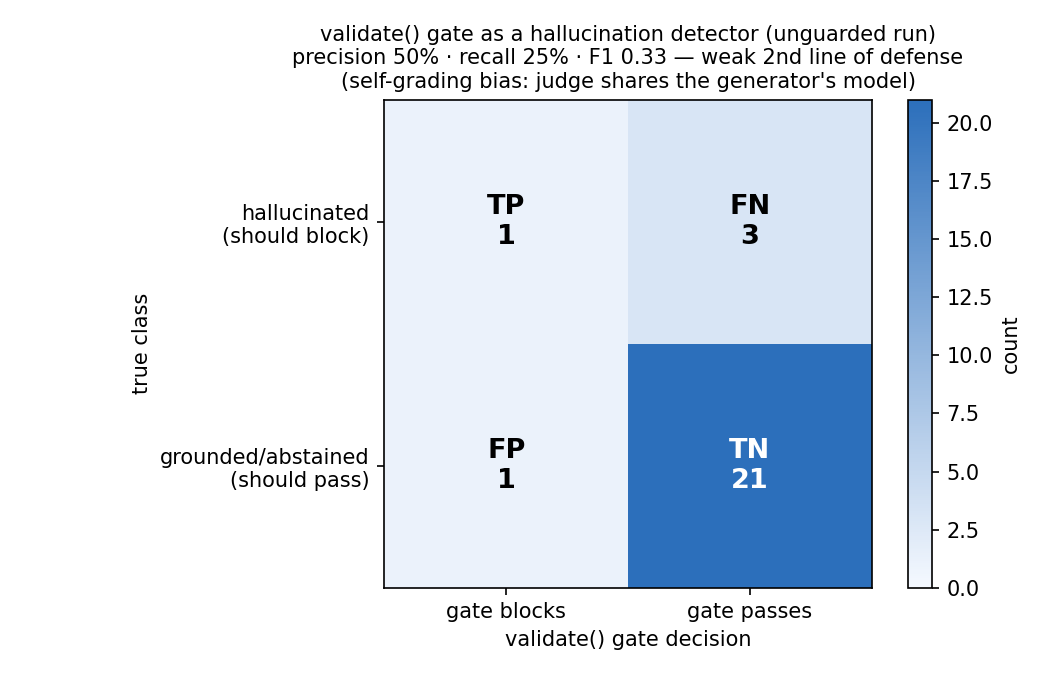
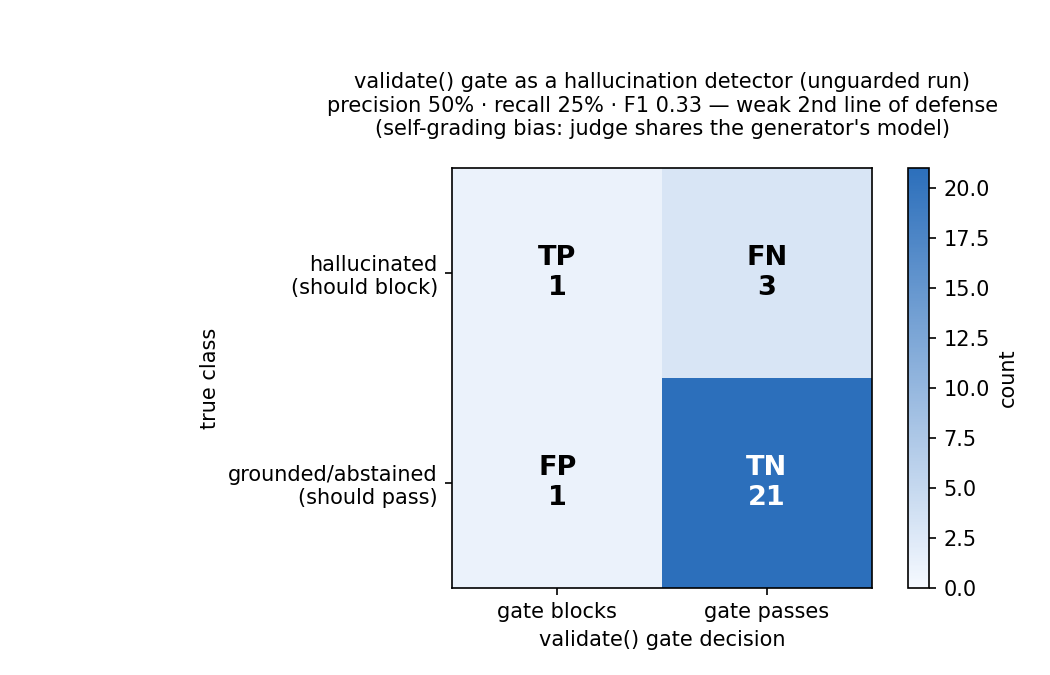
fix(eval): chart title spacing, single-H100 consistency, re-run-safe report
- gate_confusion.png / hallucination_ablation.png: add title pad + headroom
  so the 3-line confusion title no longer crowds the heatmap (regenerated).
- run_eval.py now emits the chart image embeds, headline N=26 caveats, and
  self-grading-bias prose, so report.md survives the next eval re-run instead
  of stripping them. Verified it reproduces the committed report.md verbatim.
- Standardize on "single H100": drop the contradictory "4x H100 box / GPU 2 /
  busy GPU 0" framing from README and report.md.

diff --git a/eval/run_eval.py b/eval/run_eval.py
@@ -85,7 +85,7 @@ def main():
     w("# Agentic-RAG eval — retrieval, hallucination gating, judge calibration, latency\n")
     w(f"Corpus {len(corpus)} passages · {len(ans)} answerable + {n_una} unanswerable "
       "(incl. adversarial near-miss: B200/H200/FP4 questions a model is tempted to answer "
-      "from the H100 facts in context). Self-hosted on H100: vLLM (Qwen3-8B, "
+      "from the H100 facts in context). Self-hosted on a single H100: vLLM (Qwen3-8B, "
       f"OpenAI-compatible NIM stand-in) + Ollama embeddings. k={K}, temp=0.\n")
     w(f"> **Illustrative, not a statistical benchmark (N={len(rows)}).** Percentages are "
       f"small integer ratios (e.g. {sum(r['recall'] for r in ans)}/{len(ans)} recall, "
@@ -96,8 +96,13 @@ def main():
     w("## Headline\n")
     w("| metric | value |")
     w("|---|---|")
-    w(f"| retrieval recall@{K} (answerable) | {recall_at_k:.0%} |")
-    w(f"| answer accuracy (answerable) | {accuracy:.0%} |")
+    n_ans = len(ans)
+    n_recall = sum(r["recall"] for r in ans)
+    n_correct = sum(r["correct"] for r in ans)
+    w(f"| retrieval recall@{K} (answerable) | {recall_at_k:.0%} ({n_recall}/{n_ans} — small "
+      f"illustrative set; near-trivial retrieval at {len(corpus)}-passage corpus, k={K}) |")
+    w(f"| answer accuracy (answerable) | {accuracy:.0%} ({n_correct}/{n_ans} — same small "
+      f"illustrative set, N={len(rows)} total; not a statistical benchmark) |")
     w(f"| hallucination on unanswerable — **guarded** generator | **{g_halluc:.0%}** |")
     w(f"| hallucination on unanswerable — **unguarded** generator | **{u_halluc:.0%}** |")
     w("")
@@ -105,9 +110,19 @@ def main():
       "first line of defense. The ablation shows what happens without it: the same model "
       f"hallucinates on {u_halluc:.0%} of out-of-corpus questions.\n")
 
+    w(f"**Guarded prompting -> 0%; ablation -> {u_halluc:.0%}; the weak `validate()` gate "
+      f"alone only claws it back to {residual_una:.0%} (illustrative N={n_una} unanswerable "
+      "set):**\n")
+    w(f"![Hallucination rate on unanswerable questions: unguarded {u_halluc:.0%}, guarded "
+      f"{g_halluc:.0%}, residual {residual_una:.0%} after the gate alone]"
+      "(hallucination_ablation.png)\n")
+
     w("## The validate() groundedness gate as a safety net (unguarded run)\n")
     w("Second line of defense: an LLM-as-judge checks each answer against the context and "
-      "blocks unsupported ones. Scored on the unguarded run, where hallucinations exist:\n")
+      "blocks unsupported ones. The judge (`validate()`) uses the same model and endpoint as "
+      "the generator, so this groundedness check carries a self-grading bias — the model is "
+      f"asked to flag its own output, a likely contributor to the low {rec:.0%} gate recall "
+      "below. Scored on the unguarded run, where hallucinations exist:\n")
     w("| | gate blocks | gate passes |")
     w("|---|---|---|")
     w(f"| hallucinated (should block) | TP={tp} | FN={fn} |")
@@ -116,6 +131,11 @@ def main():
     w(f"- precision **{prec:.0%}** · recall **{rec:.0%}** · F1 **{f1:.2f}**")
     w(f"- residual hallucination on unanswerable *after* gating: "
       f"**{residual_una:.0%}** (down from {u_halluc:.0%})\n")
+    w(f"**The `validate()` gate as a hallucination detector — precision {prec:.0%}, recall "
+      f"{rec:.0%}, F1 {f1:.2f} (caught {tp} of {tp + fn}); the judge shares the generator's "
+      f"model/endpoint, hence the self-grading bias (small illustrative N={len(rows)}):**\n")
+    w(f"![Confusion matrix of the validate() gate on the unguarded run: TP={tp}, FN={fn}, "
+      f"FP={fp}, TN={tn}](gate_confusion.png)\n")
     w("Recall is the safety number — of answers that *should* be blocked, the share the "
       "gate caught. FN are the dangerous misses. Two cheap defenses stacked (guarded prompt "
       "+ judge gate) is how you get a low residual without a fine-tune.\n")

diff --git a/eval/make_charts.py b/eval/make_charts.py
@@ -64,6 +64,7 @@ def chart_hallucination_ablation(path: str) -> None:
         "Hallucination on out-of-corpus questions (N=10 unanswerable)\n"
         "guarded prompt → 0% · weak gate alone → 30% residual",
         fontsize=11,
+        pad=12,
     )
     ax.yaxis.grid(True, linestyle="--", alpha=0.4)
     ax.set_axisbelow(True)
@@ -125,10 +126,12 @@ def chart_gate_confusion(path: str) -> None:
         f"precision {PRECISION:.0%} · recall {RECALL:.0%} · F1 {F1:.2f} — "
         "weak 2nd line of defense\n(self-grading bias: judge shares the generator's model)",
         fontsize=10,
+        pad=16,
     )
 
     fig.colorbar(im, ax=ax, fraction=0.046, pad=0.04, label="count")
-    fig.tight_layout()
+    # Reserve headroom so the 3-line title is not cramped against the heatmap.
+    fig.tight_layout(rect=(0, 0, 1, 0.93))
     fig.savefig(path, dpi=DPI)
     plt.close(fig)
 

diff --git a/eval/report.md b/eval/report.md
@@ -1,6 +1,6 @@
 # Agentic-RAG eval — retrieval, hallucination gating, judge calibration, latency
 
-Corpus 20 passages · 16 answerable + 10 unanswerable (incl. adversarial near-miss: B200/H200/FP4 questions a model is tempted to answer from the H100 facts in context). Self-hosted on a single H100 (one GPU of a 4× H100 box; the 8B model fits on one GPU, so the others are untouched): vLLM (Qwen3-8B, OpenAI-compatible NIM stand-in) + Ollama embeddings. k=3, temp=0.
+Corpus 20 passages · 16 answerable + 10 unanswerable (incl. adversarial near-miss: B200/H200/FP4 questions a model is tempted to answer from the H100 facts in context). Self-hosted on a single H100: vLLM (Qwen3-8B, OpenAI-compatible NIM stand-in) + Ollama embeddings. k=3, temp=0.
 
 > **Illustrative, not a statistical benchmark (N=26).** Percentages are small integer ratios (e.g. 16/16 recall, 4/10 unguarded hallucinations); they show the harness works and the directional effect, not a precise score. Scale the corpus and eval set for a real number.
 

diff --git a/README.md b/README.md
@@ -61,7 +61,7 @@ python eval/run_eval.py        # -> eval/report.md
 
 ## Results — self-hosted on a single H100 (vLLM Qwen3-8B + Ollama embeddings)
 
-_Hardware: one H100, on a 4× H100 box — the 8B model fits on a single GPU, so only one is used (the others are untouched)._
+_Hardware: a single H100 — the 8B model fits comfortably on one GPU._
 
 Full writeup: [`eval/report.md`](eval/report.md). NIM is OpenAI-compatible, so a self-hosted
 vLLM endpoint is a faithful stand-in — flip `NIM_MODE`/`NIM_LLM_URL` to a real
@@ -98,7 +98,6 @@ enough on its own; this is why the roadmap adds a multi-sample / NeMo-Guardrails
 
 > Run it yourself (self-hosted): `NIM_MODE=selfhost NIM_LLM_URL=…:8011/v1
 > NIM_EMBED_URL=…:11434/v1 NIM_DISABLE_THINKING=1 python eval/run_eval.py`.
-> LLM served on GPU 2 only — the busy GPU 0 is never touched.
 
 ## Talk
 
